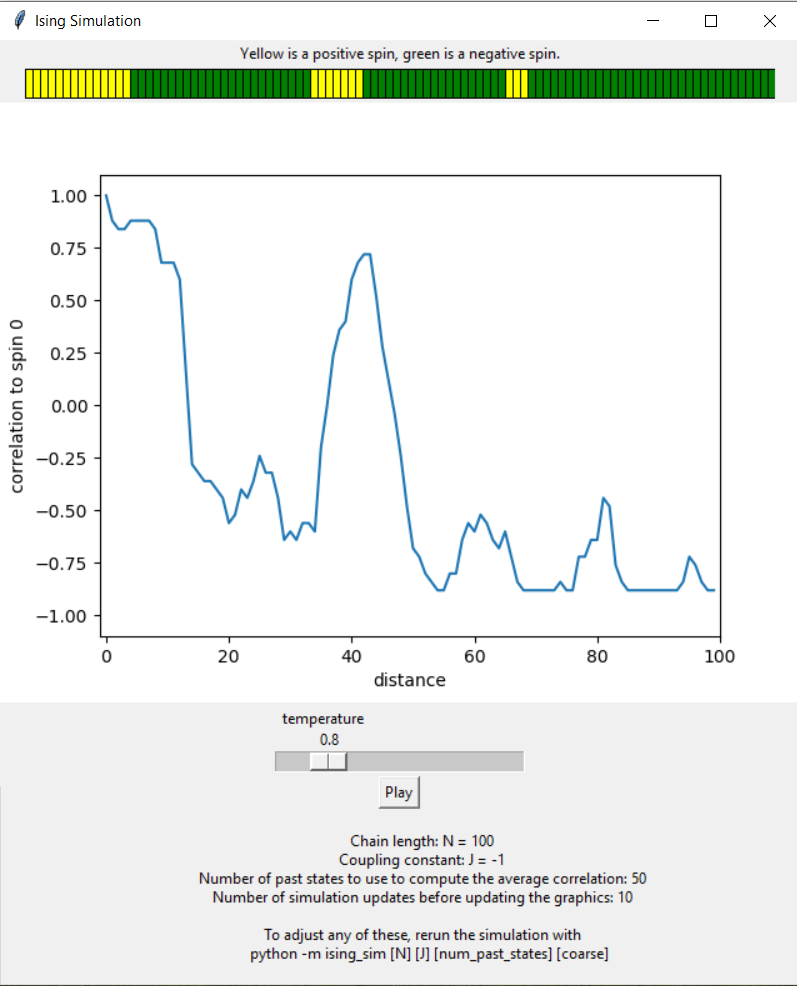
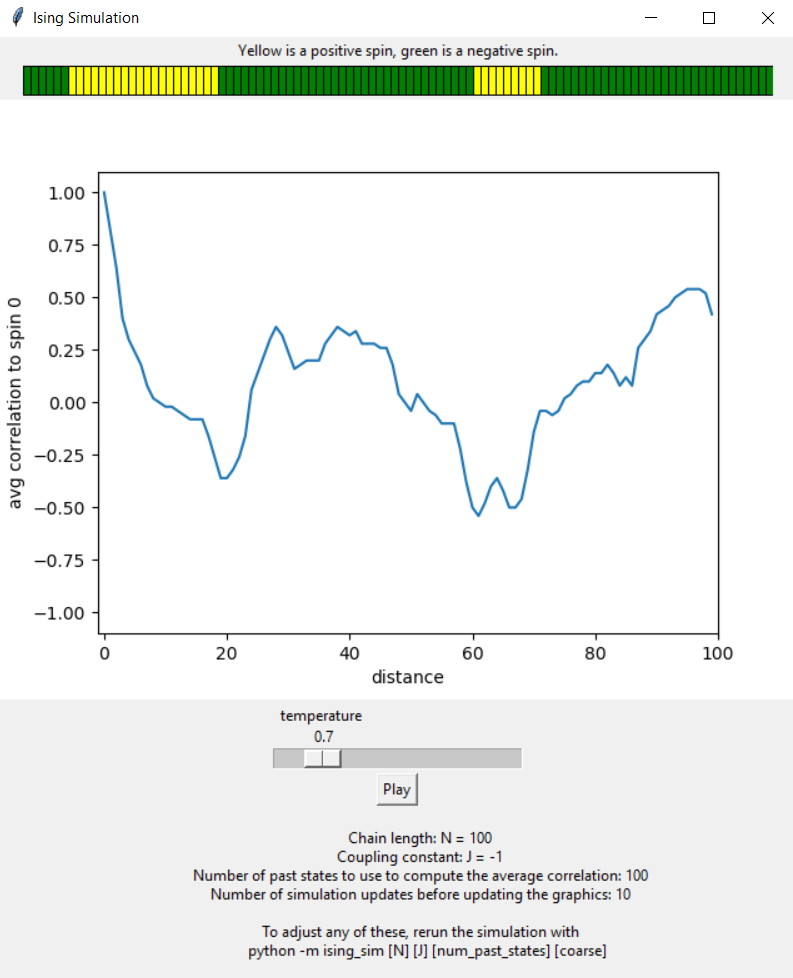
removed need for qubovert

diff --git a/ising_sim/sim/_isingsimulation.py b/ising_sim/sim/_isingsimulation.py
@@ -4,7 +4,6 @@ This file contains the main class for simulating the 1D Ising chain.
 
 """
 
-from qubovert import spin_var
 from numpy import exp
 import random
 
@@ -60,24 +59,17 @@ class IsingSimulation:
             self._state = {i: initial_state[i] for i in range(length)}
             if set(self._state.values()) != {1, -1}:
                 raise ValueError("Spins must be either 1 or -1")
+        self._state[-1], self._state[length] = 0, 0
         self._initial_state = self._state.copy()
 
         if local_fields is None:
-            local_fields = {}
+            self._local_fields = dict(enumerate([0]*length))
         elif isinstance(local_fields, dict):
-            local_fields = local_fields.copy()
+            self._local_fields = local_fields.copy()
         else:
-            local_fields = dict(enumerate(local_fields))
+            self._local_fields = dict(enumerate(local_fields))
 
         self._past_states = []
-
-        z = {i: spin_var(i) for i in range(length)}
-        z[-1] = 0
-        z[length] = 0
-        self._subgraphs = {
-            i: z[i] * (J * (z[i-1] + z[i+1]) + local_fields.get(i, 0))
-            for i in range(length)
-        }
 
     @property
     def state(self):
@@ -91,7 +83,10 @@ class IsingSimulation:
             Dictionary that maps spin locations to their values.
 
         """
-        return self._state.copy()
+        s = self._state.copy()
+        s.pop(-1)
+        s.pop(self._length)
+        return s
 
     @property
     def length(self):
@@ -188,13 +183,15 @@ class IsingSimulation:
             self._add_past_state(self.state)
             for _ in range(self._length):
                 i = random.randint(0, self._length-1)
-                E = self._subgraphs[i].value(self._state)
-                self._state[i] *= -1  # flip the spin
-                E_flip = self._subgraphs[i].value(self._state)
 
-                dE = E_flip - E
-                if not (dE < 0 or (T and random.random() < exp(-dE / T))):
-                    # flip the spin back to where it was
+                # change in energy if we were to flip spin i
+                dE = -2 * self._state[i] * (
+                    self._J * (self._state[i-1] + self._state[i+1]) + 
+                    self._local_fields[i]
+                )
+
+                if dE < 0 or (T and random.random() < exp(-dE / T)):
+                    # flip the spin
                     self._state[i] *= -1
 
     def schedule_update(self, schedule):

diff --git a/ising_sim/__main__.py b/ising_sim/__main__.py
@@ -23,5 +23,5 @@ if __name__ == "__main__":
         length = int(argv[1])
         J = float(argv[2]) if argv[2:] else -1
         num_past_states = int(argv[3]) if argv[3:] else 100
-        coarse = int(argv[4]) if argv[4:] else 10
+        coarse = int(argv[4]) if argv[4:] else 5
         start_graphical_simulation(length, J, num_past_states, coarse)

diff --git a/README.rst b/README.rst
@@ -68,4 +68,5 @@ To Do
 See also
 ========
 
-The really cool web app that motivated me to make this one! https://github.com/explorablesforsfi/ising
+- The really cool web app that motivated me to make this one! https://github.com/explorablesforsfi/ising
+- I added simulation of arbitrary spin and boolean systems as well as simulated annealing with this simulation to `qubovert <https://github.com/jiosue/qubovert/>`_.
